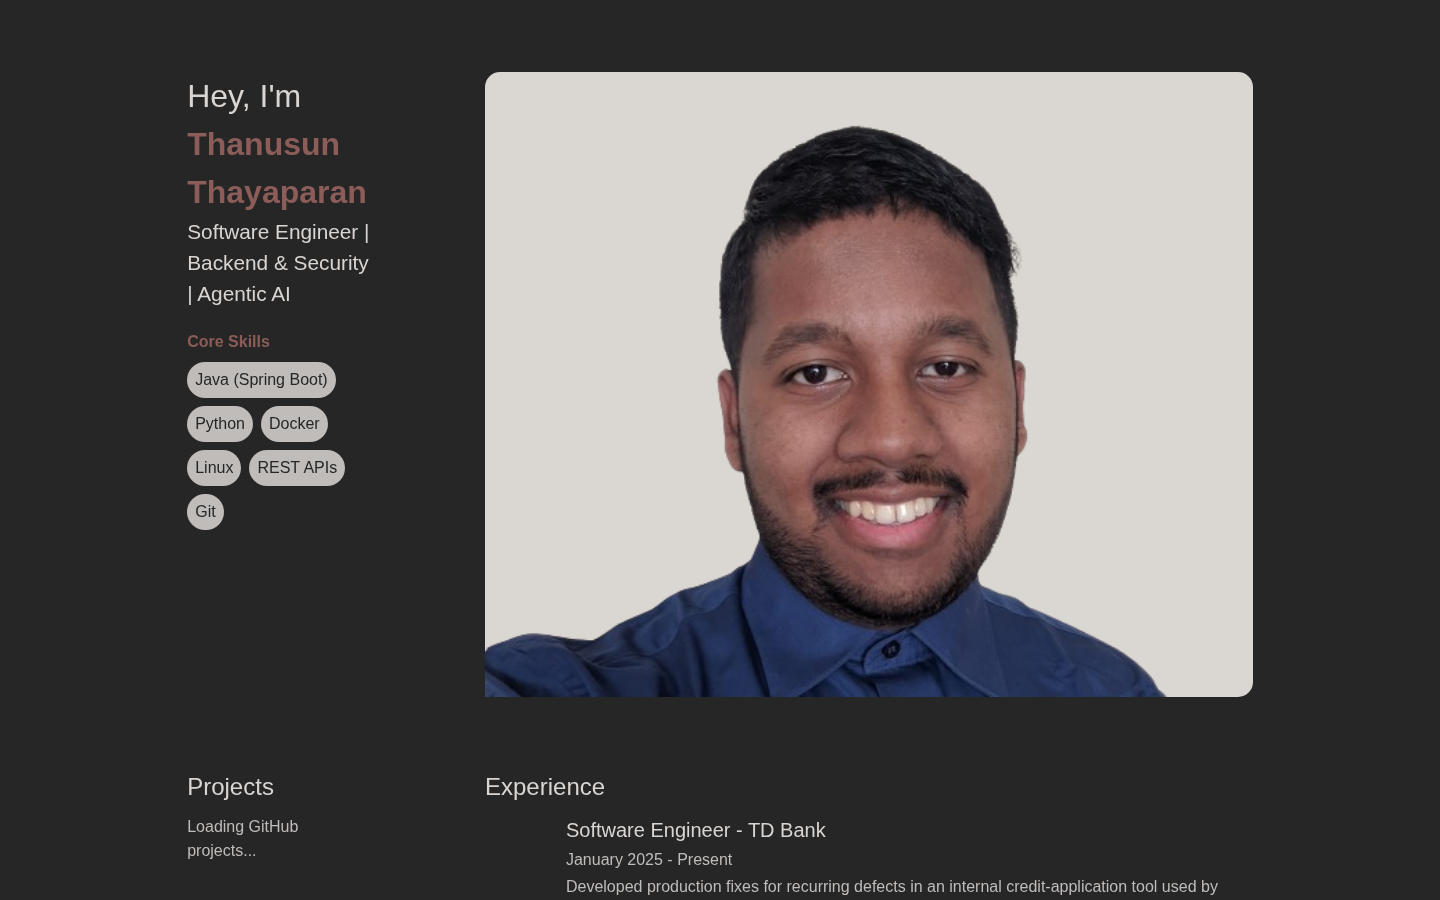
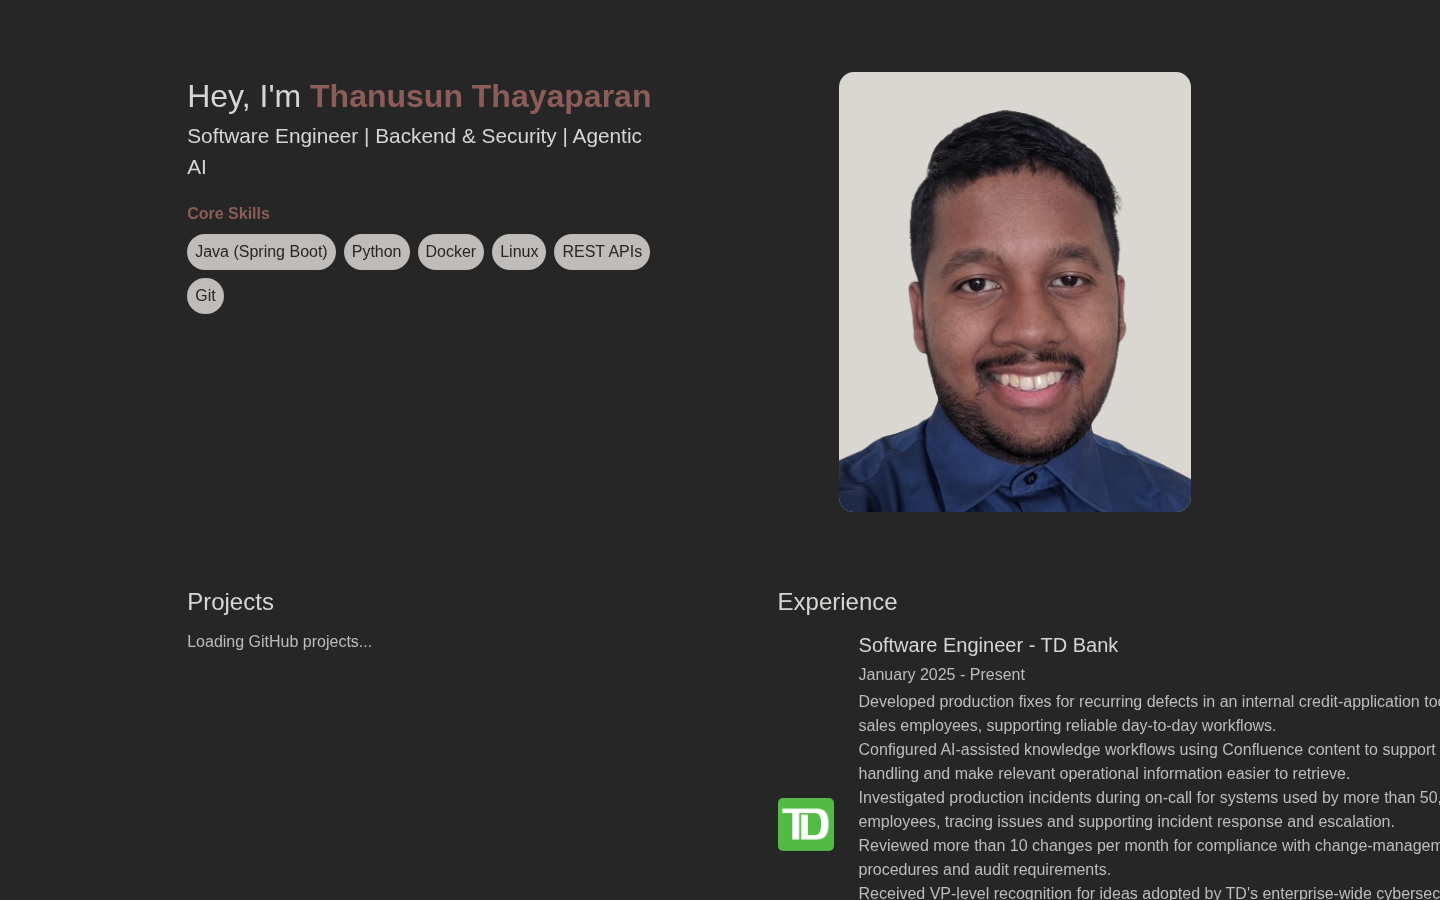
Balance desktop profile image layout

diff --git a/src/css/Image.css b/src/css/Image.css
@@ -6,19 +6,28 @@
 
 .profile-background {
   background-color: #dad7d2;
-  width: 100%;
+  width: min(100%, 22rem);
+  aspect-ratio: 4 / 5;
+  justify-self: center;
+  overflow: hidden;
   border-radius: 15px;
   grid-column-start: 2;
 }
 
-@media (max-width: 1200px) {
+@media (max-width: 900px) {
+  .App {
+    grid-template-columns: minmax(0, 1fr);
+  }
+
   .profile-background {
-    grid-column-start: 1;
+    grid-column-start: auto;
+    width: min(100%, 30rem);
   }
 }
 
 @media (max-width: 600px) {
   .profile-background {
+    width: 100%;
     border-radius: 10px;
   }
 }

diff --git a/src/App.css b/src/App.css
@@ -4,6 +4,7 @@ body {
 
 .App {
   display: grid;
+  grid-template-columns: minmax(0, 1fr) minmax(0, 1fr);
   font-family: "Montserrat", sans-serif;
   padding: 5% 13%;
   column-gap: 8vw;
@@ -19,6 +20,7 @@ body {
 
 @media (max-width: 600px) {
   .App {
+    grid-template-columns: minmax(0, 1fr);
     padding: 2rem 1rem;
     column-gap: 0;
     row-gap: 2.5rem;
